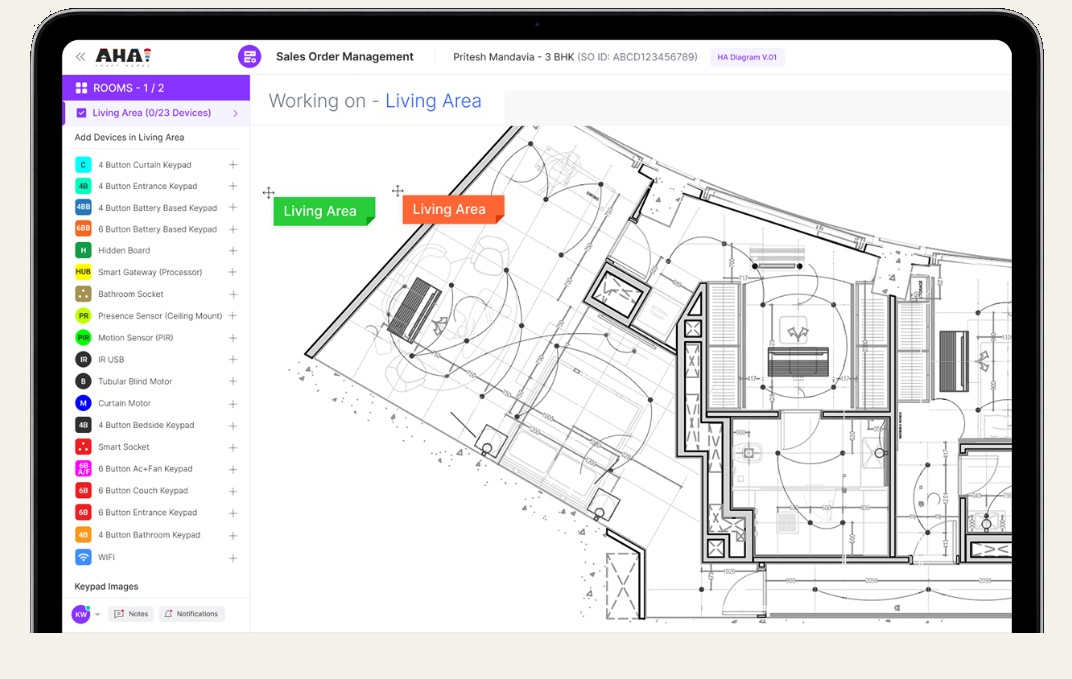
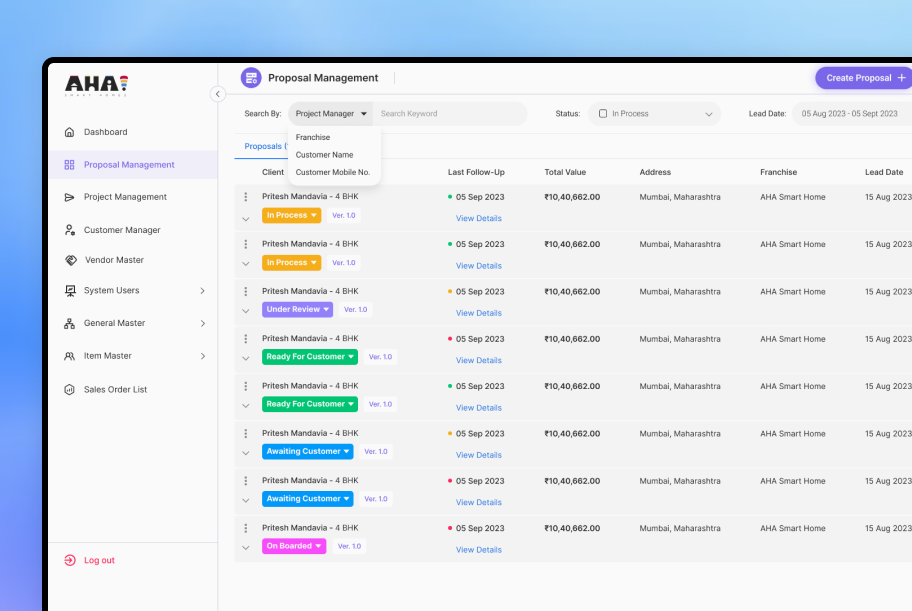
Swap the AHA SaaS work card to the Proposal Management laptop shot.

diff --git a/src/App.tsx b/src/App.tsx
@@ -261,7 +261,7 @@ function Header() {
 
 function WorkVisual({ type }: { type: (typeof works)[number]["visual"] }) {
   const shots: Partial<Record<(typeof works)[number]["visual"], { src: string; alt: string; contain?: boolean }>> = {
-    saas: { src: "/assets/hero-aha-saas.png?v=3", alt: "AHA SaaS Sales Order Management on a laptop", contain: true },
+    saas: { src: "/assets/hero-aha-saas.png?v=4", alt: "AHA SaaS Proposal Management on a laptop", contain: true },
     landing: { src: "/assets/img-aha-website.png", alt: "AHA Smart Homes website on a laptop" },
     prescrip: { src: "/assets/img-prescrip-app.png", alt: "Prescrip transactions app on a phone" },
     epix: { src: "/assets/img-epix-cinemas.png", alt: "Epix Cinemas website on a laptop" },
